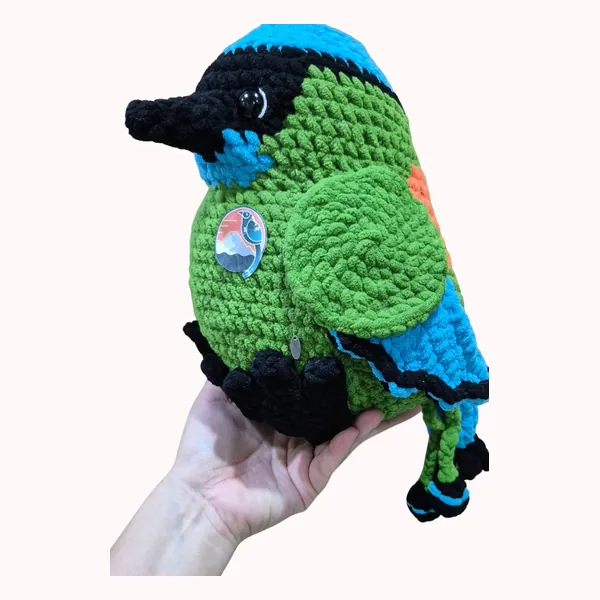
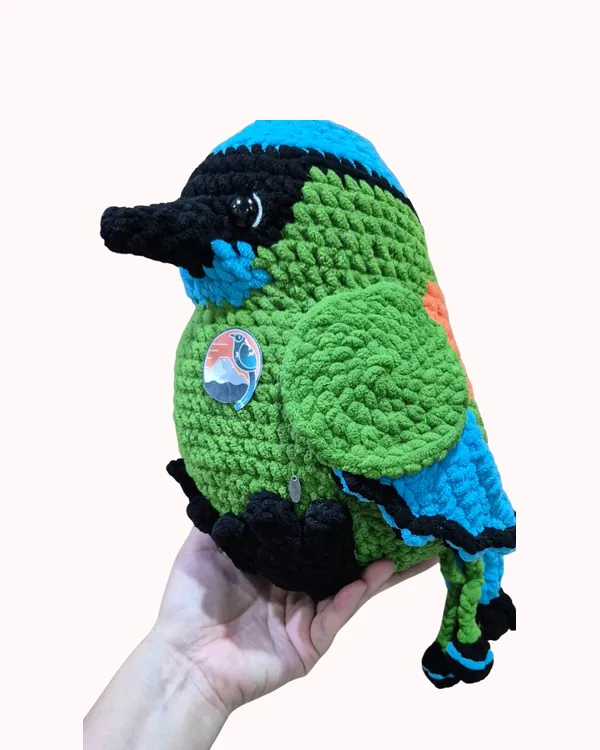
Personaliza: galería de personalizados con encuadre parejo (#64)
* Personaliza: galería en 4:5 con aire arriba; policía e ingeniero con su encuadre anterior

Claude-Session: https://claude.ai/code/session_01U9SAsfVct6L94yoocG63si

* Personaliza: más aire arriba en corona y dúo; ingeniero y policía de cuerpo entero

Claude-Session: https://claude.ai/code/session_01U9SAsfVct6L94yoocG63si

---------

diff --git a/personaliza.html b/personaliza.html
@@ -421,15 +421,15 @@ height="0" width="0" style="display:none;visibility:hidden"></iframe></noscript>
 
   <h2 class="titulo-proceso">Otros personalizados que hemos entregado</h2>
   <div class="casos-personaliza entregados-personaliza">
-    <figure><img src="img/personalizados/howl-sophie.webp?v=4" alt="Amigurumis de Howl y Sophie tomados de la mano" width="600" height="600" loading="lazy" decoding="async"><figcaption>Howl y Sophie, tomados de la mano</figcaption></figure>
-    <figure><img src="img/personalizados/reina.webp?v=4" alt="Amigurumi personalizado de una mujer con corona y vestido rojo" width="600" height="600" loading="lazy" decoding="async"><figcaption>Con su corona y su vestido rojo</figcaption></figure>
-    <figure><img src="img/personalizados/gafas.webp?v=4" alt="Amigurumi personalizado de una mujer rubia con gafas y vestido blanco" width="600" height="600" loading="lazy" decoding="async"><figcaption>Con sus gafas y su vestido blanco</figcaption></figure>
-    <figure><img src="img/personalizados/duo.webp?v=4" alt="Dos amigurumis personalizados de hombres, cada uno con su ropa" width="600" height="600" loading="lazy" decoding="async"><figcaption>Un dúo, cada uno con su estilo</figcaption></figure>
-    <figure><img src="img/personalizados/sombrero.webp?v=4" alt="Amigurumi personalizado con sombrero y poncho blanco" width="600" height="600" loading="lazy" decoding="async"><figcaption>Con su sombrero y su poncho</figcaption></figure>
-    <figure><img src="img/personalizados/ave.webp?v=4" alt="Barranquero tejido en crochet con plumas verdes, azules y negras" width="600" height="600" loading="lazy" decoding="async"><figcaption>Un barranquero tejido a pedido</figcaption></figure>
-    <figure><img src="img/personalizados/casco.webp?v=4" alt="Amigurumi personalizado de un ingeniero civil con casco blanco y chaleco naranja" width="600" height="600" loading="lazy" decoding="async"><figcaption>Un ingeniero civil con su casco y su chaleco</figcaption></figure>
-    <figure><img src="img/personalizados/ingeniero.webp?v=4" alt="Amigurumi personalizado de un ingeniero de sistemas con gafas y su portátil" width="600" height="600" loading="lazy" decoding="async"><figcaption>Un ingeniero de sistemas con su portátil</figcaption></figure>
-    <figure><img src="img/personalizados/policia.webp?v=4" alt="Amigurumi personalizado de un policía con uniforme y gorra" width="600" height="600" loading="lazy" decoding="async"><figcaption>Un policía con su uniforme</figcaption></figure>
+    <figure><img src="img/personalizados/howl-sophie.webp?v=5" alt="Amigurumis de Howl y Sophie tomados de la mano" width="600" height="750" loading="lazy" decoding="async"><figcaption>Howl y Sophie, tomados de la mano</figcaption></figure>
+    <figure><img src="img/personalizados/reina.webp?v=6" alt="Amigurumi personalizado de una mujer con corona y vestido rojo" width="600" height="750" loading="lazy" decoding="async"><figcaption>Con su corona y su vestido rojo</figcaption></figure>
+    <figure><img src="img/personalizados/gafas.webp?v=5" alt="Amigurumi personalizado de una mujer rubia con gafas y vestido blanco" width="600" height="750" loading="lazy" decoding="async"><figcaption>Con sus gafas y su vestido blanco</figcaption></figure>
+    <figure><img src="img/personalizados/duo.webp?v=6" alt="Dos amigurumis personalizados de hombres, cada uno con su ropa" width="600" height="750" loading="lazy" decoding="async"><figcaption>Un dúo, cada uno con su estilo</figcaption></figure>
+    <figure><img src="img/personalizados/sombrero.webp?v=5" alt="Amigurumi personalizado con sombrero y poncho blanco" width="600" height="750" loading="lazy" decoding="async"><figcaption>Con su sombrero y su poncho</figcaption></figure>
+    <figure><img src="img/personalizados/ave.webp?v=5" alt="Barranquero tejido en crochet con plumas verdes, azules y negras" width="600" height="750" loading="lazy" decoding="async"><figcaption>Un barranquero tejido a pedido</figcaption></figure>
+    <figure><img src="img/personalizados/casco.webp?v=5" alt="Amigurumi personalizado de un ingeniero civil con casco blanco y chaleco naranja" width="600" height="750" loading="lazy" decoding="async"><figcaption>Un ingeniero civil con su casco y su chaleco</figcaption></figure>
+    <figure><img src="img/personalizados/ingeniero.webp?v=6" alt="Amigurumi personalizado de un ingeniero de sistemas con gafas y su portátil" width="600" height="750" loading="lazy" decoding="async"><figcaption>Un ingeniero de sistemas con su portátil</figcaption></figure>
+    <figure><img src="img/personalizados/policia.webp?v=6" alt="Amigurumi personalizado de un policía con uniforme y gorra" width="600" height="750" loading="lazy" decoding="async"><figcaption>Un policía con su uniforme</figcaption></figure>
   </div>
 
   <h2 class="titulo-proceso">Tamaños de referencia</h2>
